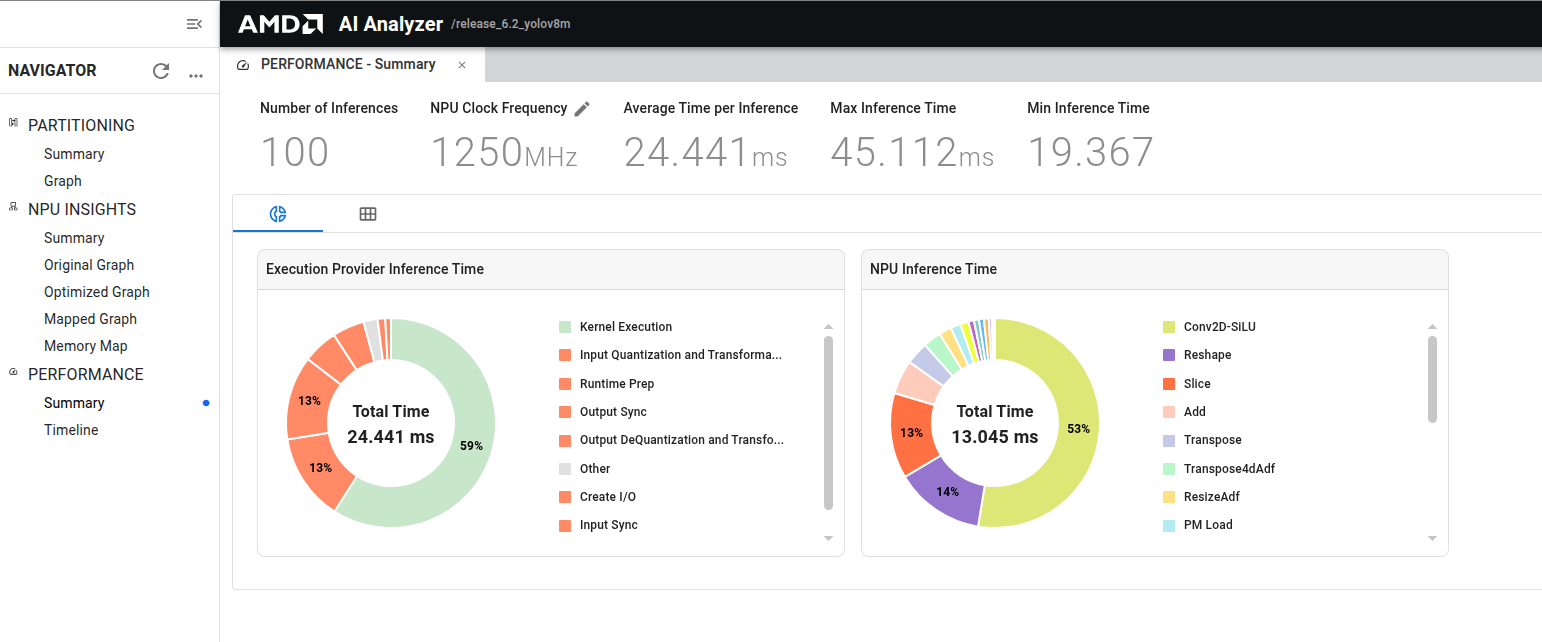
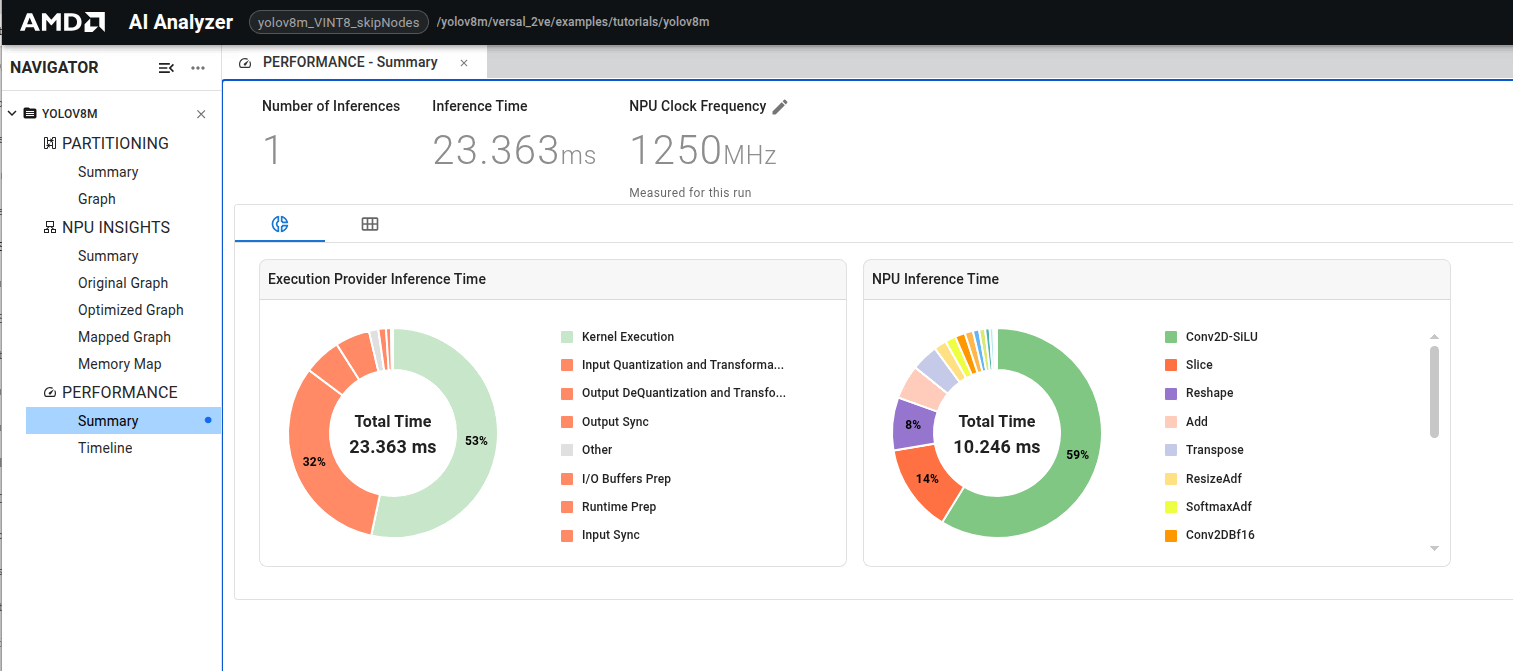
release/6.3 updates

diff --git a/versal_2ve/examples/tutorials/yolov8m/README.md b/versal_2ve/examples/tutorials/yolov8m/README.md
@@ -446,7 +446,7 @@ For details on launching AI Analyzer inside docker, see AI Analyzer section of V
 
 ### Using Vitis AI Runtime (VART)
 
-As seen above, the total inference time using the ONNX Runtime Execution Provider is **24.441ms**. By switching to VART, this inference time can be reduced to **13.687 ms**. 
+As seen above, the total inference time using the ONNX Runtime Execution Provider is **23.363ms**. By switching to VART, this inference time can be reduced to **10.619 ms**. 
 VART offloads computation directly to the NPU with minimal CPU involvement, delivering more efficient end-to-end performance compared to ONNX Runtime.
 
 VART is a runtime environment designed for high-efficiency AI model inference on NPU hardware with minimal CPU overhead, and is used for precise end-to-end performance measurement.
@@ -507,7 +507,7 @@ sudo cp -r <path-to-board-package>/overlay/* /overlay/
 Program the PL + AI Engine overlay PDI and DTB:
 
 ```bash
-sudo fpgautil -b /overlay/vpl_gen_fixed_pld.pdi -o /overlay/pl_aiarm.dtbo
+sudo fpgautil -b /overlay/x_plus_ml.pdi -o /overlayx_plus_ml.dtbo
 ```
 
 **Copy Configuration Files**
@@ -531,7 +531,6 @@ Before running the application on the board, configure the required environment 
 ```bash
 echo 1 > /sys/module/rcupdate/parameters/rcu_cpu_stall_suppress
 export XRT_AIARM=true
-export LD_LIBRARY_PATH=/usr/lib/python3.12/site-packages/voe/lib/:/usr/lib/python3.12/site-packages/flexmlrt/lib/
 export XLNX_ENABLE_CACHE=0
 export XRT_ELF_FLOW=1
 ```
@@ -551,7 +550,16 @@ ml_vart --app-config ml_vart_config.json --benchmark --runs 100
 Expected console output:
 
 ```bash
-Average inference time over 100 runs: 13.82 ms
+Running the inference for 100 runs
++------------------------+--------------------------------+
+|                       Performance                       |
++------------------------+--------------------------------+
+| Metric                 | Value                          |
++------------------------+--------------------------------+
+| Average Inference Time | 10.69 ms/inference (dp_size=1) |
+|------------------------|--------------------------------|
+| Average Throughput     | 93.50 FPS                      |
++------------------------+--------------------------------+
 Run completed successfully.
 ```
 

diff --git a/versal_2ve/reference_design/vek385/docs/VEK385_MIPI_Streaming_AI_Reference_Design.md b/versal_2ve/reference_design/vek385/docs/VEK385_MIPI_Streaming_AI_Reference_Design.md
@@ -1,4 +1,4 @@
-# VEK385 MIPI Streaming AI Reference Design
+<img width="1891" height="838" alt="image" src="https://github.com/user-attachments/assets/1bad87b3-14a7-4940-a98c-a11fde3b7d74" /># VEK385 MIPI Streaming AI Reference Design
 
 ## 1. Introduction
 
@@ -412,6 +412,17 @@ This generates the following output files in the `artifacts/` folder:
 - Linux kernel image
 - Root filesystem
 
+**Step 3b.1 -- Prepare the UFS Boot Image:**
+
+After the Yocto build completes, perform the following additional steps on the host system to prepare the UFS boot image for Rev-B:
+
+1. Refer to [Vitis AI SDK](#3a-vitis-ai-sdk-optional----only-needed-to-build-your-own-applications) to install the sysroot and set up the environment.
+2. Run the following script to create the UFS boot image:
+
+```bash
+source ./create_ufs_image.sh
+```
+
 **Step 3c -- Build the Vitis AI Engine application:**
 
 ```bash
@@ -423,7 +434,7 @@ This generates PL and AI Engine PDI and overlay dtbo files in the `artifacts/` f
 - x\_plus\_ml.pdi
 - x\_plus\_ml.dtbo
 
-**Vitis AI SDK (optional — only needed to build your own applications)**
+### 3a. Vitis AI SDK (optional -- only needed to build your own applications)
 
 > **Note:** The reference design itself does **not** require any application compilation. The end-to-end pipelines are driven by the shell scripts under `/etc/vvas/examples/camera/` (see [Section 2d](#2d-initialize-camera-and-run-applications)), which invoke **prebuilt** GStreamer/VVAS plugins that are already included in the root filesystem. The AI Engine and PL overlay (`x_plus_ml.pdi`, `x_plus_ml.dtbo`) are produced by the boot-image build (Step 3c, `create_vitis_app.sh`), not by this SDK.
 >
